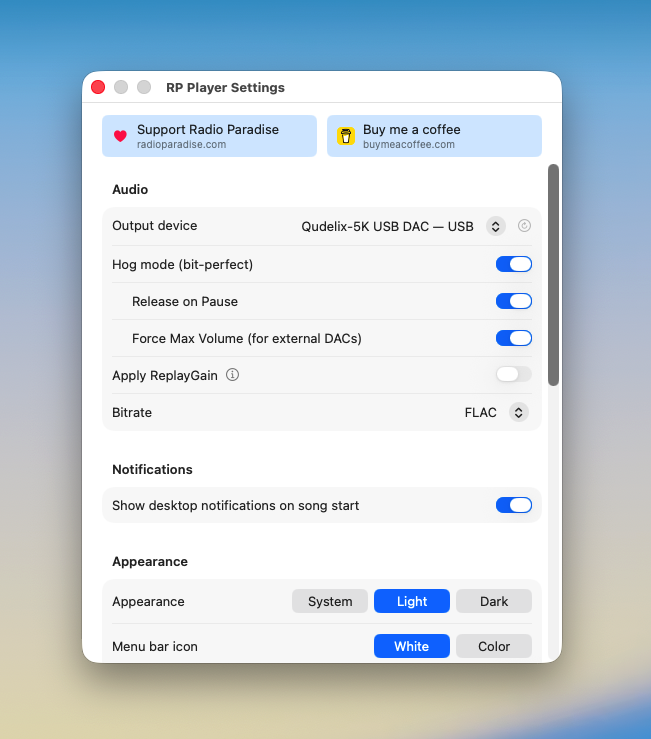
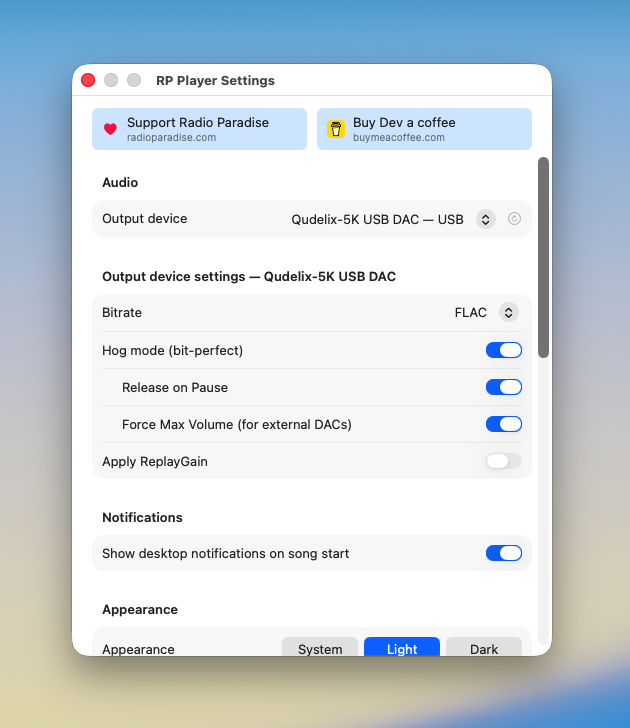
docs: update and re-arrange README, tweak button text in settings

diff --git a/Sources/RPPlayer/Shell/SettingsView.swift b/Sources/RPPlayer/Shell/SettingsView.swift
@@ -47,7 +47,7 @@ struct SettingsView: View {
                 )
             )
             supportButton(
-                title: "Buy me a coffee",
+                title: "Buy Dev a coffee",
                 subtitle: "buymeacoffee.com",
                 url: "https://buymeacoffee.com/gvajda",
                 icon: AnyView(bmcIcon)
@@ -110,7 +110,8 @@ struct SettingsView: View {
     }
 
     private var deviceSettingsSectionTitle: String {
-        viewModel.currentDeviceName.map { "Output device settings — \($0)" } ?? "Output device settings"
+        viewModel.currentDeviceName.map { "Output device settings — \($0)" }
+            ?? "Output device settings"
     }
 
     private var deviceSettingsSection: some View {

diff --git a/README.md b/README.md
@@ -32,111 +32,100 @@ The app installs a status item in the menu bar (no Dock icon, no main window). C
 
 ## Features
 
-### Playback
+### Radio Paradise Playback
 
 - **Plays every Radio Paradise channel**
   - Channel list fetched live from `api/list_chan`; new/removed channels appear automatically.
-  - Includes the Favorites channel (`chan=99`) once you log in.
+  - ⭐ Includes the **My Paradise** (a.k.a. Favorites) channel once you log in.
 - **Every bitrate the API offers**
-  - 32k / 64k / 128k / 320k AAC, 128k / 320k MP3, **FLAC** (default).
+  - 32k / 64k / 128k / 320k AAC, 128k / 320k MP3, FLAC.
   - Selectable from Settings; takes effect on the next channel switch or block boundary.
+- **Song rating**
+  - Click ☆ to rate songs, or see your rating (★ N) displayed in the title row. Disabled when signed out. Ratings POST to `api/rate` and update the local `userRating` immediately on success.
+  - Sign in via Settings → Sign in. The login window is a `WKWebView` pointed at the official login page; the auth cookies stay in the macOS Keychain.
+- **Behaviour matches the official player**
+  - Bootstrap and advance both go through `api/play` with the personalised per-listener cursor, so the same blocks/songs play in the same order as the web player.
+  - Cross-session resume: the backend remembers where you left off per channel. Restarting the app picks up where you stopped.
+  - Telemetry endpoints (`update_history`, `update_pause`) keep the cursor accurate across pauses, skips, and song boundaries.
+
+- **⭐ Extra: Upcoming Program window**
+  - Side-by-side columns, one per channel, each showing the next N songs (configurable in Settings).
+  - Each card has the album art, title, artist, album, and your personal rating if any.
+  - The currently playing channel's column is tinted with the accent colour and its title carries a glow.
+  - The currently playing song row gets an accent-colour border + glow if it's still in the loaded slice; if the data is stale the column highlight stays but the row glow doesn't appear.
+  - **Channel headers are clickable** — switching from this window changes the channel in the popover and on the engine. Songs are not interactable; pause/skip stay in the popover.
+  - Refresh button in the toolbar; "last updated" relative timestamp; channel filter for hiding channels you never browse (chan 42 + 99 are always excluded).
+  - Uses `api/play` (not `api/get_block`) so the upcoming list reflects the same personalised cursor as actual playback.
+
+<p align="center"><img src=".screenshots/upcoming-program.png" alt="Upcoming Program window with current channel highlighted."/></p>
+
+### Audio
+
 - **Media keys + Control Center widget**
   - Hardware **Play/Pause** and **Next Track** keys on Mac and Bluetooth keyboards control the stream.
   - macOS **Now Playing** widget (Control Center, lock-screen-style controls) shows current title/artist/album/artwork plus elapsed time, and reflects play/pause state.
   - Previous-track and seek are intentionally disabled — Radio Paradise is forward-only.
+- **Per-device audio settings**:
+  - Each output device stores its own profile (hog mode, release-on-pause, force-max volume, ReplayGain, bitrate).
+  - Switching devices instantly restores that device's saved profile. Devices seen for the first time start from safe defaults — all toggles off, 320k AAC — so a DAC profile with Force Max Volume on can never bleed over to built-in speakers.
 - **Bit-perfect output via CoreAudio hog mode**
   - The app acquires the audio device exclusively (`kAudioDevicePropertyHogMode`) and feeds it the decoded sample stream untouched — no system mixer, no resampling.
   - Hog mode is opt-out in Settings if you'd rather share the device with other apps.
   - **Release on Pause** (default on): the device returns to shared use whenever you pause, so other apps and Mac calls work normally without quitting RP Player.
   - **Force Max Volume** (for external DACs): pins the device's CoreAudio volume to 100% and locks `volume-max` so no software attenuation is in the signal path. Confirmation alert before enabling — set your DAC/amp/headphone volume first.
-  - **Apply ReplayGain** toggle (default off; force-max overrides it): per-track loudness normalisation when on, untouched audio when off.
-  - Output device picker reads from `AudioDeviceCatalog`; refresh button next to the picker rescans on demand for newly paired Bluetooth or hot-plugged devices.
-  - **Per-device audio settings**: each output device stores its own profile (hog mode, release-on-pause, force-max volume, ReplayGain, bitrate). Switching devices instantly restores that device's saved profile. Devices seen for the first time start from safe defaults — all toggles off, 320k AAC — so a DAC profile with Force Max Volume on can never bleed over to built-in speakers.
-- **Behaviour matches the official player**
-  - Bootstrap and advance both go through `api/play` with the personalised per-listener cursor, so the same blocks/songs play in the same order as the web player.
-  - Cross-session resume: the backend remembers where you left off per channel. Restarting the app picks up where you stopped.
-  - Telemetry endpoints (`update_history`, `update_pause`) keep the cursor accurate across pauses, skips, and song boundaries.
-- **Appearance**
-  - System / Light / Dark mode picker.
-  - **Popover style** picker (None / Ambient / Frosty): None is the default opaque window background, Ambient paints a 2-stop gradient sampled from the current album art, Frosty drops a `NSVisualEffectView` (`.hudWindow`, `.behindWindow`) behind the SwiftUI host so the desktop blurs through.
-  - **Frosted Upcoming Program window** — same `NSVisualEffectView` blur behind the upcoming-cards layout (macOS 14+).
+- **Apply ReplayGain**
+  - Per-track loudness normalisation when on, untouched audio when off.
+  - default off; force-max overrides it.
 
 <p align="center"><img src=".screenshots/settings.png" alt="Settings window: bitrate, output device, hog mode toggle."/></p>
 
-## Visuals
+### Visuals
 
-### Mini player popover
-
-- Album art at the top of the panel, edge-to-edge.
-- Title / artist / album, current rating (★ N), live elapsed/remaining and a progress bar that updates per second.
-- Playback control: play–pause + skip-forward (skip respects the per-block song list and falls through to the prefetched next block).
-- Channel picker centred under the controls; bitrate label to the right (verbatim from the API: "FLAC", "320k AAC", etc.).
-- Hamburger menu with: Settings, Open Song in Browser, Upcoming Program, Floating Window, About, Quit.
-
-### Floating window mode
-
-- Toggle from the menu (right-click icon or in-popover hamburger). Item shows a checkmark when active.
-- The popover detaches from the menu-bar anchor: stays visible across other-app interactions, joins all Spaces, and is draggable from any background area.
-- Click anywhere to dismiss is disabled; toggle off (or close from the icon click) returns it to anchored mode.
-- Setting persists across launches — turn it on once, the panel comes back on the next start.
-
-### Album art + ambient background
-
-- Album art is fetched from `img.radioparadise.com`, validated as a real image, and cached on disk (LRU, ~10 MB cap).
-- The next song's art is **prefetched** as soon as it's known (within-block from the song list, across blocks from the prefetched next block), so the cover swap at song boundaries is instant — no blank tile.
-- Optional **ambient background**: samples a representative colour from the bottom edge of the cover and fades the popover background between that colour and the system window colour. Toggle in Settings.
-
-### Song rating
-
-- ★ N picker in the title row. Disabled when signed out. Ratings POST to `api/rate` and update the local `userRating` immediately on success.
-- Sign in via Settings → Sign in. The login window is a `WKWebView` pointed at the official login page; the auth cookies stay in the macOS Keychain.
-
-### Notifications
-
-- One macOS notification per song change (banner + tray entry) with cover thumbnail.
-- Clicking a notification:
-  - For the currently playing song → opens the popover.
-  - For a song that finished playing recently → opens a small "past song" panel with the same metadata + rating row, so you can rate a track you only noticed after it ended.
-- Toggle in Settings; needs the system notification permission granted on first launch.
-
-### Hover tooltip on the menu-bar icon
-
-- Hovering the icon (after a 300 ms delay) shows a two-line tooltip: "RP Player" plus a live `-mm:ss` countdown to the end of the current song.
-- The countdown ticks every second while the cursor stays over the icon. No song playing → second line hidden.
-
-### Right-click context menu
-
-- Same items as the in-popover hamburger menu (sourced from one shared NSMenu builder).
-- "Open Song in Browser" auto-disables when nothing is playing.
-- "Upcoming Program…" opens the schedule window described below.
-- "Floating Window" toggles the popover into draggable always-on-top mode (see below).
-
-### Upcoming Program window
-
-- Side-by-side columns, one per channel, each showing the next N songs (configurable in Settings).
-- Each card has the album art, title, artist, album, and your personal rating if any.
-- The currently playing channel's column is tinted with the accent colour and its title carries a glow.
-- The currently playing song row gets an accent-colour border + glow if it's still in the loaded slice; if the data is stale the column highlight stays but the row glow doesn't appear.
-- **Channel headers are clickable** — switching from this window changes the channel in the popover and on the engine. Songs are not interactable; pause/skip stay in the popover.
-- Refresh button in the toolbar; "last updated" relative timestamp; channel filter for hiding channels you never browse (chan 42 + 99 are always excluded).
-- Uses `api/play` (not `api/get_block`) so the upcoming list reflects the same personalised cursor as actual playback.
-
-<p align="center"><img src=".screenshots/upcoming-program.png" alt="Upcoming Program window with current channel highlighted."/></p>
+- **Mini player popover**
+  - Album art at the top of the panel, edge-to-edge.
+  - Title / artist / album, current rating (★ N), live elapsed/remaining and a progress bar that updates per second.
+  - Playback control: play–pause + skip-forward (skip respects the per-block song list and falls through to the prefetched next block).
+  - Channel picker centred under the controls; bitrate label to the right (verbatim from the API: "FLAC", "320k AAC", etc.).
+  - Hamburger menu with: Settings, Open Song in Browser, Upcoming Program, Floating Window, About, Quit.
+- **Floating window mode**
+  - Toggle from the menu (right-click icon or in-popover hamburger). Item shows a checkmark when active.
+  - The popover detaches from the menu-bar anchor: stays visible across other-app interactions, joins all Spaces, and is draggable from any background area.
+  - Click anywhere to dismiss is disabled; toggle off (or close from the icon click) returns it to anchored mode.
+  - Setting persists across launches — turn it on once, the panel comes back on the next start.
+- **Album art + ambient background**
+  - Album art is fetched from `img.radioparadise.com`, validated as a real image, and cached on disk (LRU, ~10 MB cap).
+  - The next song's art is **prefetched** as soon as it's known (within-block from the song list, across blocks from the prefetched next block), so the cover swap at song boundaries is instant — no blank tile.
+  - Optional **ambient background**: samples a representative colour from the bottom edge of the cover and fades the popover background between that colour and the system window colour. Toggle in Settings.
+- **Appearance Setting**
+  - System / Light / Dark mode picker.
+  - **Popover style** picker (None / Ambient / Frosty): None is the default opaque window background, Ambient paints a 2-stop gradient sampled from the current album art, Frosty drops a `NSVisualEffectView` (`.hudWindow`, `.behindWindow`) behind the SwiftUI host so the desktop blurs through.
+  - **Frosted Upcoming Program window** — same `NSVisualEffectView` blur behind the upcoming-cards layout (macOS 14+).
+- **Notifications**
+  - One macOS notification per song change (banner + tray entry) with cover thumbnail.
+  - Clicking a notification:
+    - For the currently playing song → opens the popover.
+    - For a song that finished playing recently → opens a small "past song" panel with the same metadata + rating row, so you can rate a track you only noticed after it ended.
+  - Toggle in Settings; needs the system notification permission granted on first launch.
+- **Hover tooltip on the menu-bar icon**
+  - Hovering the icon (after a 300 ms delay) shows a two-line tooltip: "RP Player" plus a live `-mm:ss` countdown to the end of the current song.
+  - The countdown ticks every second while the cursor stays over the icon. No song playing → second line hidden.
+- **Right-click context menu**
+  - Same items as the in-popover hamburger menu (sourced from one shared NSMenu builder).
+  - "Open Song in Browser" auto-disables when nothing is playing.
+  - "Upcoming Program…" opens the schedule window described below.
+  - "Floating Window" toggles the popover into draggable always-on-top mode (see below).
 
 ## Under the hood
 
-### Audio pipeline
-
-- **Decoder:** libmpv 0.36.0, vendored under `Vendor/libmpv/` (universal binaries via `media-kit/libmpv-darwin-build`).
-- **Output:** mpv's plain `coreaudio` AO. The app does not use `coreaudio_exclusive` — it opens hog mode itself via `AudioObjectSetPropertyData` on `kAudioDevicePropertyHogMode` *before* mpv opens the device, then hands the device back on shutdown. This avoids the format-negotiation failures observed on USB DACs (e.g. Qudelix-5K) when mpv tries to own exclusive mode itself.
-- **Block-cued seek:** `loadfile <url> replace start=<seconds>` for the initial cue, instead of a post-`fileLoaded` seek, so the UI doesn't briefly show the cue position while the HTTP buffer is still catching up.
-
-### Resilience
-
-- mpv occasionally fails to decode a block (e.g. some short promo `.m4a` files return `MPV_ERROR_NOTHING_TO_PLAY`). Instead of stalling the channel, the app advances past the bad block via `api/play` and tries the next one, up to a small retry budget. The cursor moves forward, the listener doesn't get stuck.
-- Audio device unplug surfaces a clear banner ("Audio device unavailable…") and stops cleanly so re-plugging + clicking play recovers without a relaunch.
-- Stale-bootstrap recovery: when the listener has been idle long enough that the server's per-`(player_id, chan)` cursor has lagged real-time, `api/play?action=start` can return a block whose audio file already finished broadcasting (encoded as `cue=0` with all song offsets non-positive and at least one strictly negative). Naively playing that file would resurrect already-aired content while the UI latched onto a song that never matched the audio. The app detects this signature and follows up with a single `api/play?action=play` advance to fetch the live block; one retry max so the user is never caught in a loop.
-- Long-idle resume refetch: when resuming after a pause of 59 minutes or more, the app refetches the block via the bootstrap path instead of asking mpv to resume the existing stream. The threshold sits just under typical 1-hour CDN/server TCP idle eviction, so the listener never hears mpv hit "stream ends prematurely" on a connection the CDN already closed. Composes with stale-bootstrap recovery — if the refetched block is also stale, the same single advance retry kicks in.
+- **Audio pipeline**
+  - **Decoder:** libmpv 0.36.0, vendored under `Vendor/libmpv/` (universal binaries via `media-kit/libmpv-darwin-build`).
+  - **Output:** mpv's plain `coreaudio` AO. The app does not use `coreaudio_exclusive` — it opens hog mode itself via `AudioObjectSetPropertyData` on `kAudioDevicePropertyHogMode` *before* mpv opens the device, then hands the device back on shutdown. This avoids the format-negotiation failures observed on USB DACs (e.g. Qudelix-5K) when mpv tries to own exclusive mode itself.
+  - **Block-cued seek:** `loadfile <url> replace start=<seconds>` for the initial cue, instead of a post-`fileLoaded` seek, so the UI doesn't briefly show the cue position while the HTTP buffer is still catching up.
+- **Resilience**
+  - mpv occasionally fails to decode a block (e.g. some short promo `.m4a` files return `MPV_ERROR_NOTHING_TO_PLAY`). Instead of stalling the channel, the app advances past the bad block via `api/play` and tries the next one, up to a small retry budget. The cursor moves forward, the listener doesn't get stuck.
+  - Audio device unplug surfaces a clear banner ("Audio device unavailable…") and stops cleanly so re-plugging + clicking play recovers without a relaunch.
+  - Stale-bootstrap recovery: when the listener has been idle long enough that the server's per-`(player_id, chan)` cursor has lagged real-time, `api/play?action=start` can return a block whose audio file already finished broadcasting (encoded as `cue=0` with all song offsets non-positive and at least one strictly negative). Naively playing that file would resurrect already-aired content while the UI latched onto a song that never matched the audio. The app detects this signature and follows up with a single `api/play?action=play` advance to fetch the live block; one retry max so the user is never caught in a loop.
+  - Long-idle resume refetch: when resuming after a pause of 59 minutes or more, the app refetches the block via the bootstrap path instead of asking mpv to resume the existing stream. The threshold sits just under typical 1-hour CDN/server TCP idle eviction, so the listener never hears mpv hit "stream ends prematurely" on a connection the CDN already closed. Composes with stale-bootstrap recovery — if the refetched block is also stale, the same single advance retry kicks in.
 
 ### Optimized performance
 
